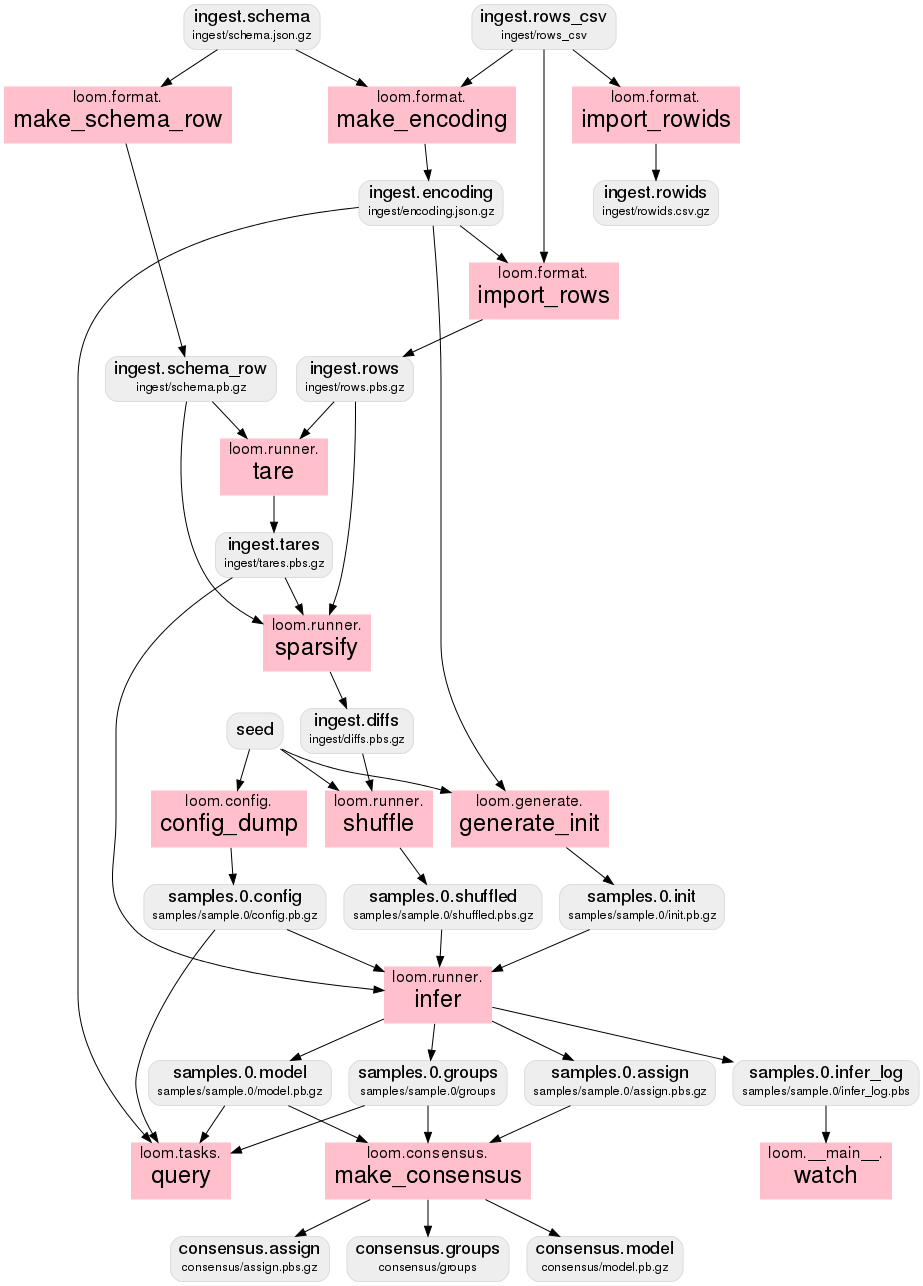
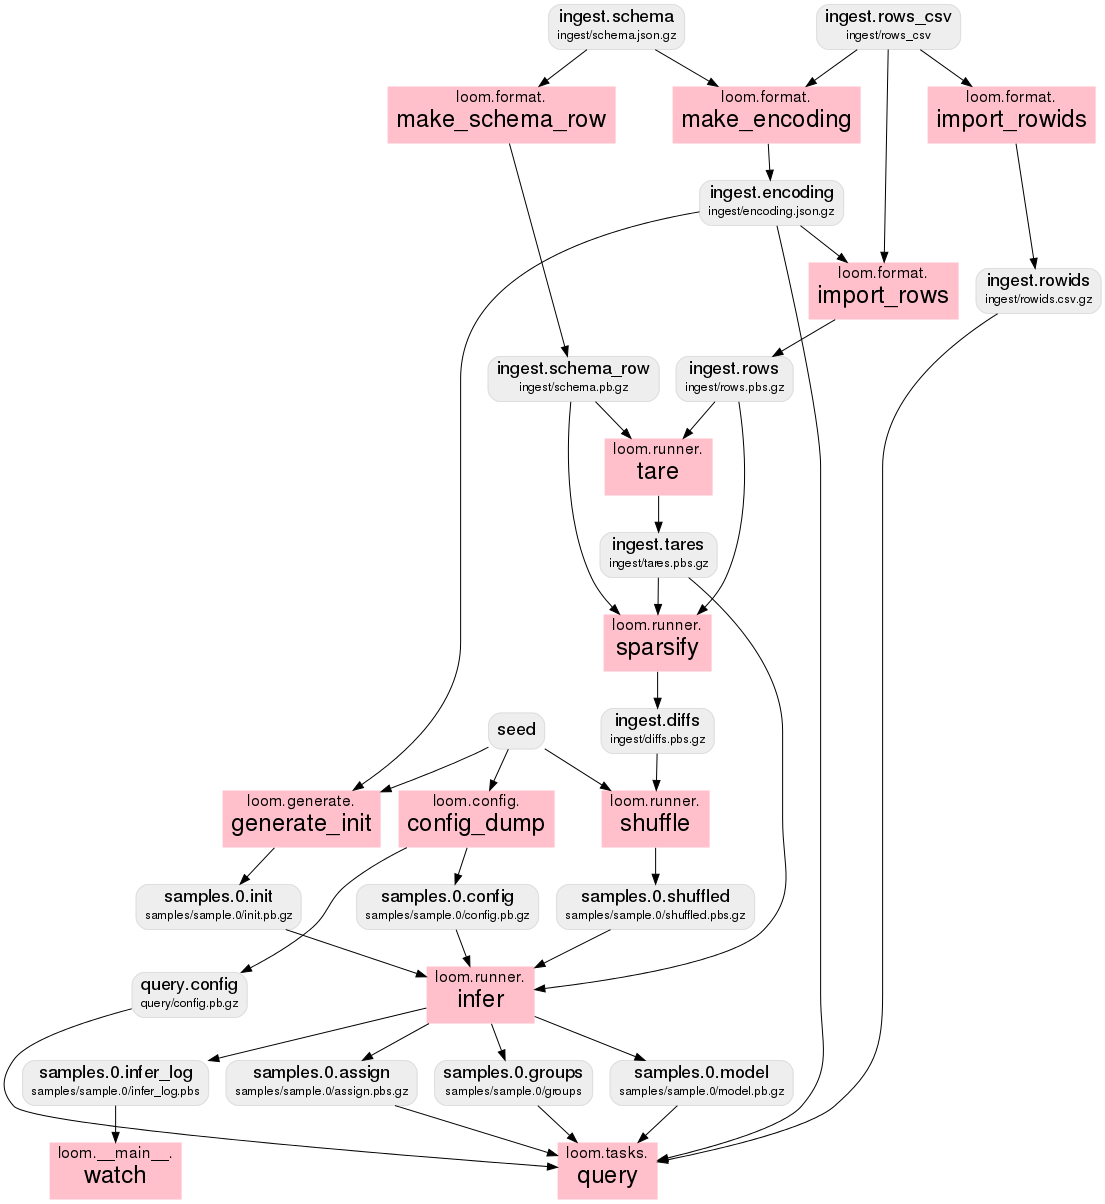
Update dataflow diagram

diff --git a/loom/consensus.py b/loom/consensus.py
@@ -36,8 +36,9 @@ def make_fake_consensus(paths, debug=False):
         cp_ns(source, destin)
 
 
-@loom.documented.transform(
-    inputs=['samples.0.model', 'samples.0.groups', 'samples.0.assign'],
-    outputs=['consensus.model', 'consensus.groups', 'consensus.assign'])
+# DEPRECATED
+# @loom.documented.transform(
+#     inputs=['samples.0.model', 'samples.0.groups', 'samples.0.assign'],
+#     outputs=['consensus.model', 'consensus.groups', 'consensus.assign'])
 def make_consensus(paths, debug=False):
     make_fake_consensus(paths, debug)

diff --git a/loom/tasks.py b/loom/tasks.py
@@ -233,9 +233,11 @@ def make_consensus(name, config=None, debug=False):
 @loom.documented.transform(
     inputs=[
         'ingest.encoding',
-        'samples.0.config',
+        'ingest.rowids',
+        'query.config',
         'samples.0.model',
-        'samples.0.groups'])
+        'samples.0.groups',
+        'samples.0.assign'])
 def query(name, config=None, debug=False, profile=None):
     '''
     Start the query server.

diff --git a/loom/config.py b/loom/config.py
@@ -107,7 +107,7 @@ def protobuf_dump(config, message, warn='WARN ignoring config'):
 
 @loom.documented.transform(
     inputs=['seed'],
-    outputs=['samples.0.config'])
+    outputs=['samples.0.config', 'query.config'])
 def config_dump(config, filename):
     config = deepcopy(config)
     fill_in_defaults(config)
